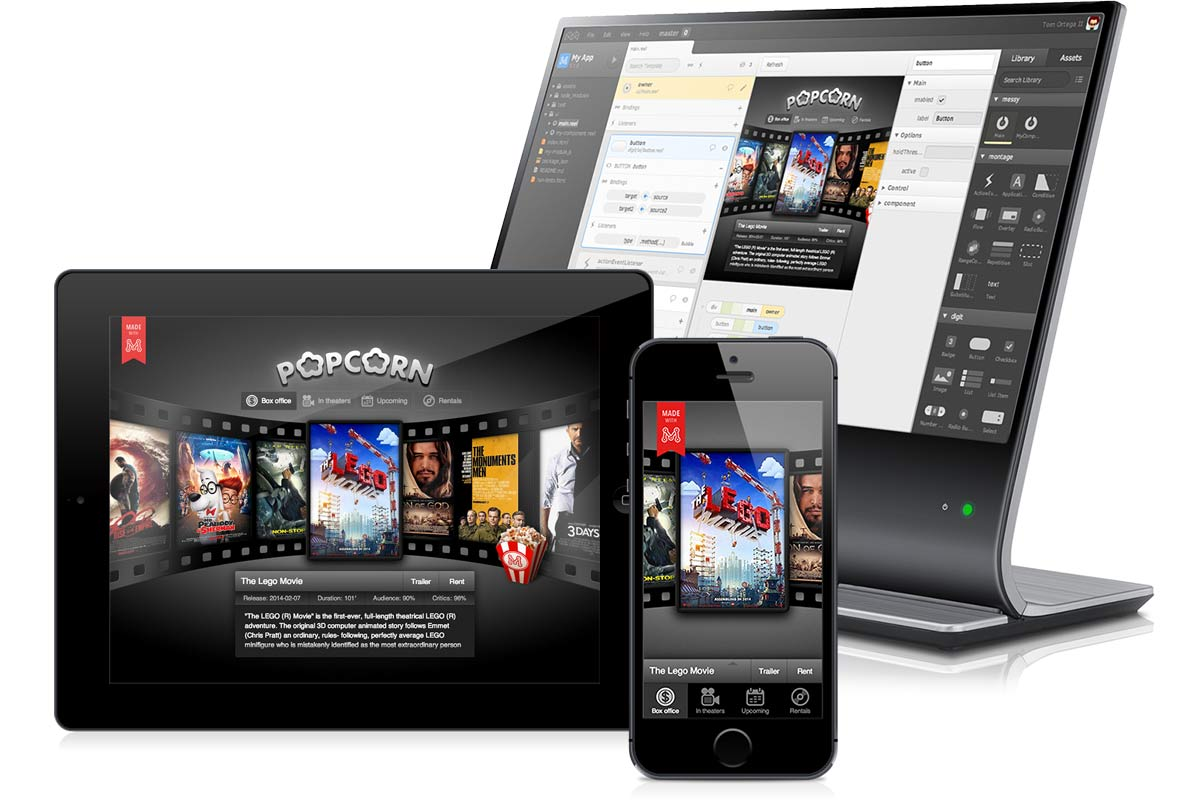
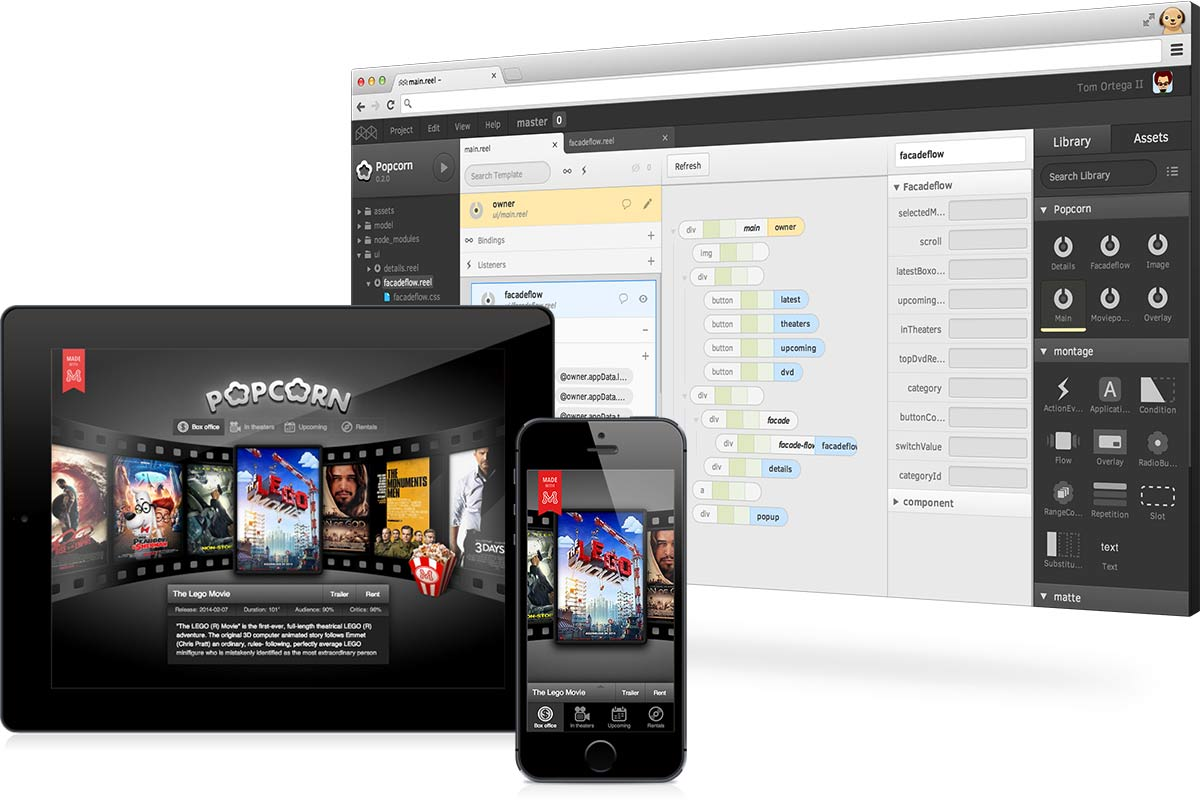
Restyle home

diff --git a/assets/styles/index.css b/assets/styles/index.css
@@ -52,8 +52,9 @@
 
 .home-content .button--action {
     margin: 0.6em 0;
-    font-size: 18px;
-    line-height: 1; padding: 1.2em 1.4em;
+    font-size: 20px;
+    line-height: 1; 
+    padding: 1em 1.2em;
     border-radius: 0.4em;
 }
 
@@ -102,12 +103,12 @@
     .home-desktop {
         display: block;
         position: absolute;
-        width: 560px;
-        height: 490px;
-        top: -400px;
-        right: 0px;
-        background: url(../images/home/desktop.png) no-repeat left top;
-        background-size: 100% auto;
+        width: 600px;
+        height: 502px;
+        top: -390px;
+        right: -60px;
+        background-position: left top;
+        background-repeat: no-repeat;
         /* -webkit-transform: perspective(1800) rotateY(-36deg); */
     
 }
@@ -115,10 +116,10 @@
     .home-tablet {
         display: block;
         position: absolute; 
-        width: 440px;
-        height: 353px;
+        width: 360px;
+        height: 290px;
         top: -120px; 
-        left: 80px;
+        left: 0px;
         background: url(../images/home/tablet.png) no-repeat left top;
         background-size: 100% auto;
     }
@@ -126,21 +127,60 @@
     .home-phone {
         display: block;
         position: absolute;
-        top: -60px;
-        left: 450px;
-        width: 180px;
-        height: 396px;
+        top: -50px;
+        left: 270px;
+        width: 110px;
+        height: 242px;
         background: url(../images/home/phone.png) no-repeat left top;
         background-size: 100% auto;
     }
-
+    
+    .home-tagline {
+        position: absolute;
+        top: 75px;
+        left: 450px;
+        right: 0;
+        font-size: 26px;
+        font-style: italic;
+        color: hsl(0, 0%, 50%);
+    }
     
     .home-content {
-        /* position: absolute; */
-        /* top: -60px; */
-        /* left: 580px; */
+        padding-top: 220px;
+        max-width: none;
     
-        padding-top: 350px;
+        text-align: center;
 }
     
+    .home-list li {
+        display: inline-block;
+    
+        width: 44%;
+        text-align: left;
+        vertical-align: top;
+        margin: 1em 2%;
+    
+        color: hsl(0, 0%, 50%);
 }
+    
+    .home-list .title-xxx {
+        font-weight: 400;
+        font-size: 1.3em;
+        color: hsl(0, 0%, 25%);
+    }
+    
+}
+
+@media (min-width: 1040px) and (-webkit-max-device-pixel-ratio: 1.49), (min-width: 1040px) and (max-resolution: 143dpi) {
+    .home-desktop {
+        background-image: url(../images/home/desktop@1x.png);
+    }
+}
+
+@media (min-width: 1040px) and (-webkit-min-device-pixel-ratio: 1.5), (min-width: 1040px) and (min-resolution: 144dpi) {
+    .home-desktop {
+        background-image: url(../images/home/desktop.png);
+        background-size: 100% auto;
+    }
+}
+

diff --git a/index.html b/index.html
@@ -19,8 +19,9 @@ home: true
         <div class="home-tablet"></div>
         <div class="home-phone"></div>
                 
+        <h2 class="home-tagline title-xx">Montage Studio, a powerful end-to-end framework built on the cloud</h2>
+
         <div class="home-content">
-            <h2 class="title-xx">Montage Studio, a powerful end-to-end framework built on the cloud</h2>
             <ul class="home-list">
                 <li>
                     <h3 class="title-xxx">Craft beautiful applications that exceed expectations</h3>
